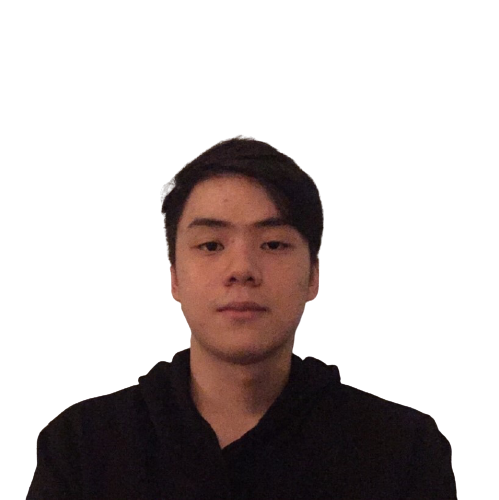
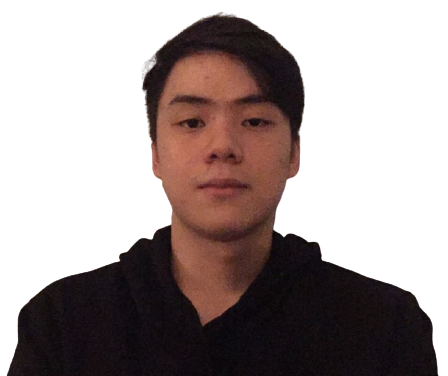
Tambahin gambar di aboutUs

Changed region(s): [[0.0, 0.0293, 1.0, 1.0]]

diff --git a/Assets/css/aboutUs.css b/Assets/css/aboutUs.css
@@ -67,7 +67,7 @@
 .box{
     width: 25%;
     background-color: white;
-    padding:5px 0px 5px 0px;
+    padding:5px 0px 15px 0px;
     margin:15px;
     border-radius: 10px;
     box-shadow: -5px 5px #d3d2d2;
@@ -90,4 +90,11 @@
     text-align: center;
     border-radius: 5px;
     color:white;
+}
+
+.box img{
+    width:100%;
+    display:block;
+    align-content: center;
+    padding: 1em 1em 0em 1em;
 }

diff --git a/Views/aboutUs.php b/Views/aboutUs.php
@@ -52,12 +52,14 @@
         </div>
         <div class="box-container">
             <div class="box">
+            <img src="../Assets/images/aboutUs/nando.png" alt=""></img>
                 <div class="box-name">
                     <p>Fernando Khorasani</p>
                     <p>000 000 43088</p>
                 </div>
             </div>
             <div class="box">
+            <img src="../Assets/images/aboutUs/lifos.png" alt=""></img>
                 <div class="box-name">
                     <div class="box-name">
                         <p>Lifosmin Simon</p>
@@ -66,6 +68,7 @@
                 </div>
             </div>
             <div class="box">
+            <img src="../Assets/images/aboutUs/ano.png" alt=""></img>
                 <div class="box-name">
                     <div class="box-name">
                         <p>Feliciano Surya Marcelo</p>
@@ -74,6 +77,7 @@
                 </div>
             </div>
             <div class="box">
+            <img src="../Assets/images/aboutUs/dea.png" alt=""></img>
                 <div class="box-name">
                     <div class="box-name">
                         <p>Dea Noveriyanti</p>
